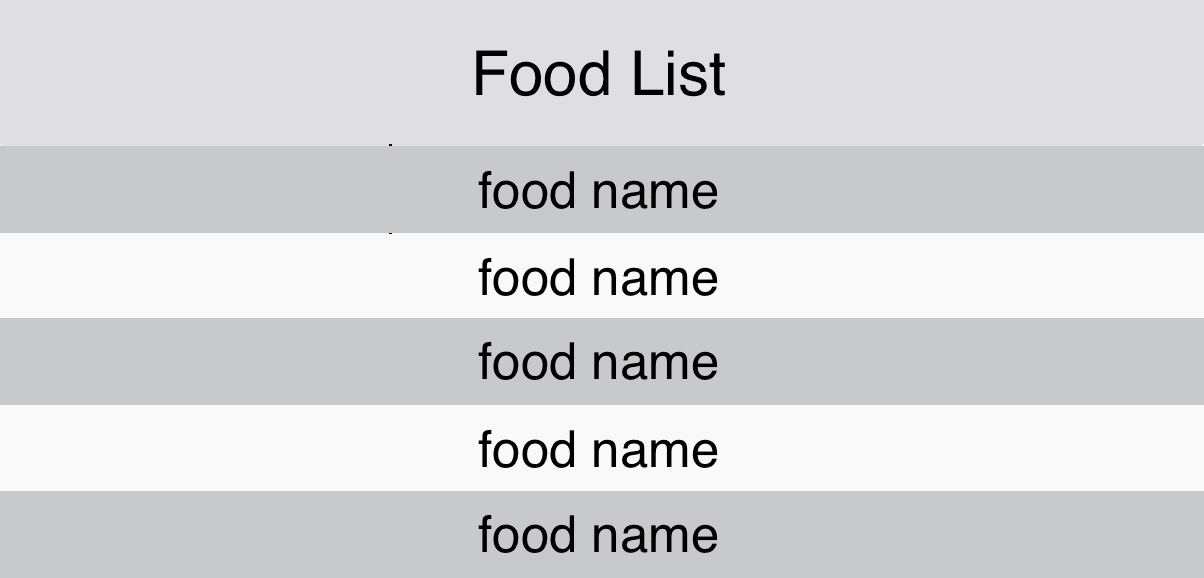
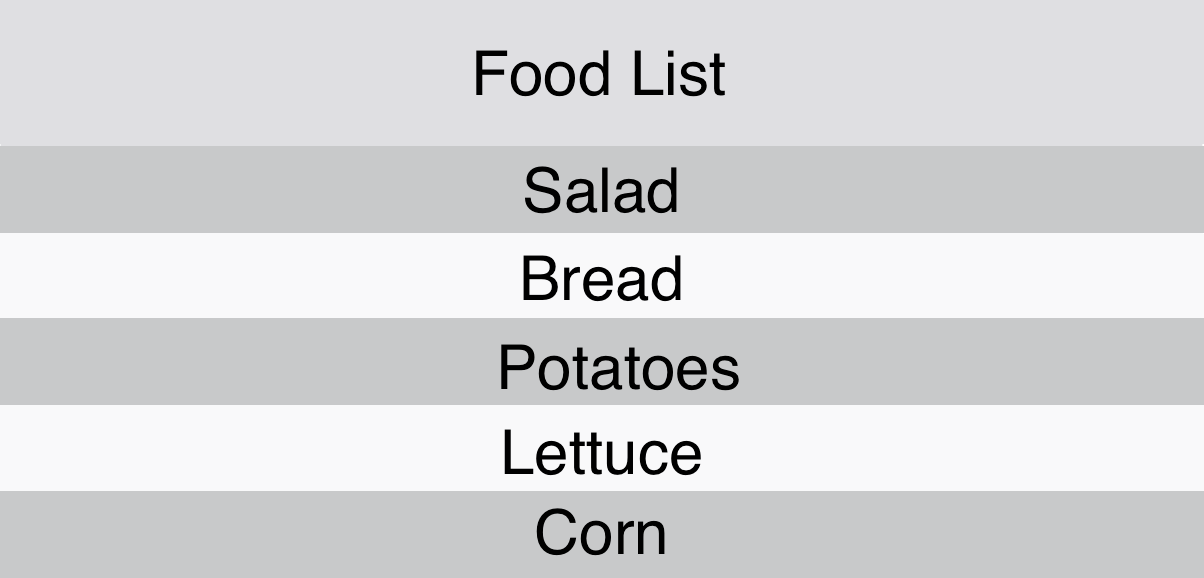
provider_customer.html

diff --git a/provider_customer.html b/provider_customer.html
@@ -1,0 +1,235 @@
+<!DOCTYPE html>
+<html>
+  <head>
+    <link rel="stylesheet" type="text/css" href="https://maxcdn.bootstrapcdn.com/bootstrap/4.0.0-beta/css/bootstrap.min.css">
+    <link rel="stylesheet" type="text/css" href="assets/styles.css">
+    <link rel="stylesheet" type="text/css" href="//maxcdn.bootstrapcdn.com/font-awesome/4.1.0/css/font-awesome.min.css" rel="stylesheet">
+    <link rel="stylesheet" type="text/css" href="assets/styles.css">
+    <meta name="viewport" content="width=device-width, initial-scale=1">
+    <link rel="stylesheet" href="https://www.w3schools.com/w3css/4/w3.css">
+    <link href="//maxcdn.bootstrapcdn.com/font-awesome/4.1.0/css/font-awesome.min.css" rel="stylesheet">
+    <meta name="viewport" content="width=device-width, initial-scale=1">
+    <link rel="stylesheet" href="https://code.jquery.com/mobile/1.4.5/jquery.mobile-1.4.5.min.css">
+    <link rel="stylesheet" type="text/css" href="assets/button_toggle.css">
+
+    <title>Profile</title>
+
+    <style>
+     body {
+      margin:0;
+       background-image:url("assets/food.jpeg");
+       background-repeat: no-repeat;
+       -webkit-background-size: cover;
+       -moz-background-size: cover;
+       -o-background-size: cover;
+       background-size: cover;
+       position: relative;
+     }
+
+      .topnav {
+        overflow: hidden;
+        background-color: #333;
+      }
+
+
+       .topnav {
+         overflow: hidden;
+         background-color: #333;
+       }
+
+       .topnav a {
+         float: left;
+         color: #f2f2f2;
+         text-align: center;
+         padding: 14px 16px;
+         text-decoration: none;
+         font-size: 17px;
+       }
+
+       .topnav a:hover {
+         background-color: #ddd;
+         color: black;
+       }
+
+       .topnav a.active {
+           padding: 7.5px;
+           color: white;
+       }
+
+       .topnav a.active:hover {
+           background-color: #ddd;
+       }
+
+       .topnav a.set {
+           background-color: #555;
+           color: white;
+       }
+
+       .topnav a.set:hover {
+           background-color: #ddd;
+           color: black;
+       }
+
+      H3 {display: inline;}
+
+      a {
+        color: inherit;
+      }
+
+      a:hover {
+        color: inherit;
+        text-decoration: inherit;
+      }
+
+      body {
+        margin:0;
+      }
+
+      .wrapper {
+        max-width: 300px;
+        margin: 94px auto 0 auto;
+      }
+
+      .button {
+        background-color: #1BCC6C;
+        width: 300px;
+        height: 30px;
+        border: none;
+        border-radius: 4px;
+        color: white;
+        padding: 50px 2px;
+        text-align: center;
+        text-decoration: none;
+        display: inline-block;
+        font-size: 26px;
+        -webkit-transition-duration: 0.4s; /* Safari */
+        transition-duration: 0.4s;
+        cursor: pointer;
+      }
+
+      .buttondonate {
+        width:200px;
+        height:200px;
+        position:relative;
+
+        display: inline-block;
+        cursor: pointer;
+        background: transparent;
+        border-radius: 50%;
+        border: none !important;
+        font-size:0;
+      }
+
+      .buttondonate:hover {
+        box-shadow: 0 12px 16px 0 rgba(0,0,0,0.24),0 17px 50px 0 rgba(0,0,0,0.19);
+      }
+    </style>
+  </head>
+
+
+
+  <body>
+
+    <!-- navigation bar -->
+    <div class="topnav">
+        <a class="active" href="index.html"><img src="assets/logo.png" style="width:100;height:40px;"></a>
+        <a class="set" href="provider_login.html">Profile</a>
+        <a href="provider_donate.html">Donate Now</a>
+        <a href="index.html">Log Out</a>
+    </div>
+
+    <!-- "Hello" text -->
+    <br>
+    <center>
+    <header style="background-color:#eee; width: 35%">
+      <h1 style="color:black"><center>VeggieGrill</center></h1>
+    </header>
+    </center
+
+    <!-- grid -->
+    <div class="ui-grid-a">
+
+      <!-- left column -->
+      <div class="ui-block-a">
+
+        <div class="w3-container" style="PADDING-LEFT:100px">
+          <!-- retaurant information-->
+          <div class="w3-panel w3-card-4" style="background-color:white">
+
+            <header class="w3-container w3-light-grey">
+              <h4>Restaurant Information</h4>
+            </header>
+
+            <div class="w3-container">
+              <!-- serving button and text -->
+              <div style="PADDING-TOP:5px;">
+
+                <label for="toggle">
+                   <b>Food availability. Turn slider off if you take the last food item.</b>
+                </label>
+                <input type="checkbox" name="toggle" id="toggle">
+                <label for="toggle"></label>
+              </div>
+              <p>Restaurant name: VeggieGrill</p>
+              <p>Address: 1234 E St. San Diego, CA 92122</p>
+              <p>Type of food: Vegetarian</p>
+              <p>Pick up hours: 06:00PM - 11:00PM</p>
+            </div>
+
+
+          </div>
+        </div>
+
+      </div>
+      <!-- closing left column -->
+
+
+      <!-- right column-->
+      <div class="ui-block-b">
+        <!-- information panel -->
+
+        <!-- history text -->
+        <div class="w3-container" style="PADDING-LEFT:30px;width:90%">
+          <!-- retaurant information-->
+          <div class="w3-panel w3-card-4" style="background-color:white">
+
+            <header class="w3-container w3-light-grey">
+              <h4>Available Food Item(s)</h4>
+            </header>
+
+
+            <div class="w3-container">
+                              <br>
+                <!-- history image -->
+                <center><img src="assets/foodlist.png" style="width:400px; height:200px"></center>
+
+                <br>
+            </div>
+          </div>
+        </div>
+
+      </div>
+      <!-- closing right column -->
+
+    </div>
+    <!-- closing grid-->
+
+    <!-- donate button -->
+    <center>  <a href="provider_donate.html"> <img src="assets/donate.png" class="buttondonate"></a></center>
+
+    <!-- JS -->
+    <script src="https://code.jquery.com/jquery-3.2.1.min.js" integrity="sha256-hwg4gsxgFZhOsEEamdOYGBf13FyQuiTwlAQgxVSNgt4=" crossorigin="anonymous"></script>
+    <script type="text/javascript" src="https://cdnjs.cloudflare.com/ajax/libs/popper.js/1.11.0/umd/popper.min.js"></script>
+    <script type="text/javascript" src="https://maxcdn.bootstrapcdn.com/bootstrap/4.0.0-beta/js/bootstrap.min.js"></script>
+    <script>
+      $('#toggle').click(function() {
+        if ($(this).is(':checked')) {
+          $(this).siblings('label').html('<b>You are currently invisible to charities. Turn slider on to start donating.</b>');
+        } else {
+          $(this).siblings('label').html('<b>You are currently visible to charities. Turn slider off to stop donating.</b>');
+        }
+      });
+    </script>
+
+</body>
+</html>
